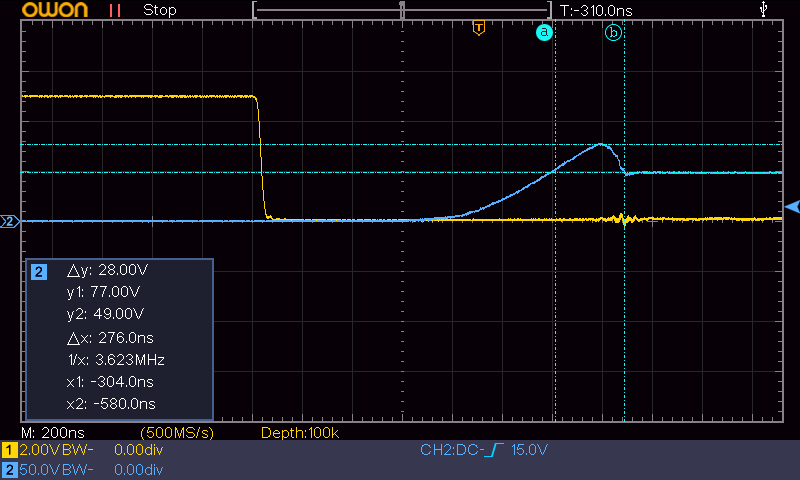
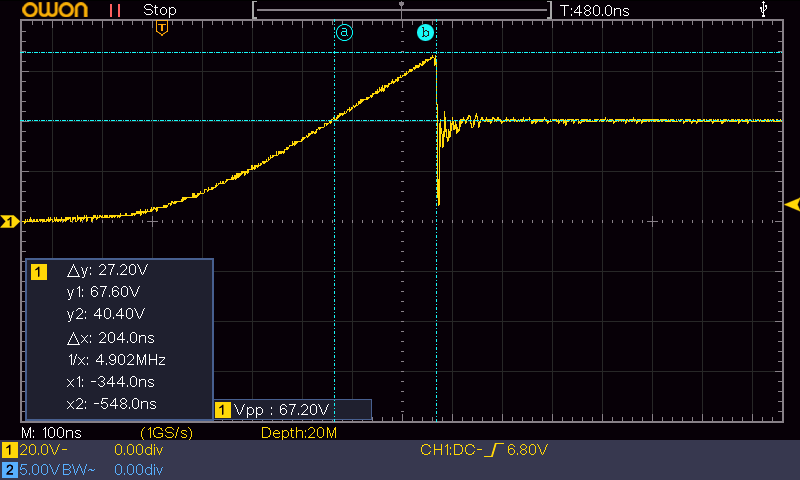
Updates scope capture

diff --git a/docs/products/motorsteuergerat-24p-v1/reference.md b/docs/products/motorsteuergerat-24p-v1/reference.md
@@ -124,7 +124,7 @@ To protect the switching MOSFETs from the high-voltage inductive "kickback" gene
 
 *   **How it Works:** When the driver turns off, the magnetic field in the injector coil collapses, generating a high-voltage spike. Once this voltage exceeds the Zener diode threshold, current flows back into the MOSFET's Gate. This turns the MOSFET slightly back on (into its linear region) to dissipate the inductive energy safely across its silicon channel.
 
-*  **Fast Injector Closing:** By clamping the inductive spike at a relatively high voltage (settling to $\approx 49\ \text{V}$ on the Motorsteuergerät 24P V1), the magnetic field is forced to collapse rapidly. This results in fast and repeatable injector closing times, minimizing injector lag.
+*  **Fast Injector Closing:** By clamping the inductive spike at a relatively high voltage (settling to $\approx 40\ \text{V}$ on the Motorsteuergerät 24P V1), the magnetic field is forced to collapse rapidly. This results in fast and repeatable injector closing times, minimizing injector lag.
 
 *  **Thermal Distribution:** The robust MOSFET silicon absorbs the bulk of the thermal energy spike, preventing small, discrete diodes on the board from overheating.
 
@@ -144,15 +144,15 @@ The scope capture shows the MOSFET Drain voltage ($V_{\mathrm{DS}}$, blue) and t
 output that drives the gate (yellow) as the injector turns off. The yellow trace is measured
 *before* the gate resistor, so it shows the logic-side Gate-drive command rather than the exact
 $V_{\mathrm{GS}}$ at the MOSFET pin. During the brief Zener turn-on delay the Drain briefly
-spikes to about $77\ \text{V}$ before the active clamp settles to a stable $\approx 49\ \text{V}$
+spikes to about $67\ \text{V}$ for approximately $200\ \text{ns}$ before the active clamp settles to a stable $\approx 40\ \text{V}$
 plateau. This is expected behavior and is safe for the IRLR2905.
 
-??? tip "Why a 77 V spike is safe for the MOSFET"
-    Although the $77\ \text{V}$ peak exceeds the IRLR2905's rated Drain-to-Source breakdown
+??? tip "Why a 67 V spike is safe for the MOSFET"
+    Although the $67\ \text{V}$ peak exceeds the IRLR2905's rated Drain-to-Source breakdown
     voltage ($V_{\mathrm{DSS}} = 55\ \text{V}$), the MOSFET is not harmed. Under this ultra-short
     sub-microsecond transient, the device enters its rated **avalanche breakdown** region. Modern
     power MOSFETs are fully avalanche-rated, and the tiny amount of energy transferred during this
-    $276\ \text{ns}$ window is orders of magnitude below the transistor's avalanche ratings
+    $200\ \text{ns}$ window is orders of magnitude below the transistor's avalanche ratings
     ($E_{\mathrm{AS}} = 210\ \text{mJ}$, $E_{\mathrm{AR}} = 11\ \text{mJ}$,
     $I_{\mathrm{AR}} = 25\ \text{A}$), allowing it to safely absorb the spike.
 
@@ -162,14 +162,14 @@ plateau. This is expected behavior and is safe for the IRLR2905.
         maximum rated avalanche current ($I_{\mathrm{AR}}$), not the actual injector current.
         A far more realistic upper-bound is the peak injector-bank current from §A.1.1,
         $4.67\ \text{A}$ (four injectors in parallel at $14\ \text{V}$). Assuming the full
-        $77\ \text{V}$ peak and that $4.67\ \text{A}$ persist throughout the complete
-        $276\ \text{ns}$ interval:
+        $67\ \text{V}$ peak and that $4.67\ \text{A}$ persist throughout the complete
+        $200\ \text{ns}$ interval:
 
-        $$E_{\mathrm{avalanche}} \leq V \cdot I \cdot t = 77\ \text{V} \cdot 4.67\ \text{A} \cdot 276\ \text{ns} \approx 0.099\ \text{mJ} = 9.9 \times 10^{-5}\ \text{J}$$
+        $$E_{\mathrm{avalanche}} \leq V \cdot I \cdot t = 67\ \text{V} \cdot 4.67\ \text{A} \cdot 200\ \text{ns} \approx 0.063\ \text{mJ} = 6.3 \times 10^{-5}\ \text{J}$$
 
-        So the energy deposited in the MOSFET during the 276 ns Zener turn-on delay is at most
-        **about $0.1\ \text{mJ}$** — roughly **one tenth of a millijoule**, or
-        **$1 \times 10^{-4}\ \text{J}$**. The real energy is lower because both voltage and
+        So the energy deposited in the MOSFET during the 200 ns Zener turn-on delay is at most
+        **about $0.06\ \text{mJ}$** — roughly **0.06 millijoule**, or
+        **$6 \times 10^{-5}\ \text{J}$**. The real energy is lower because both voltage and
         current vary during the transient, and the actual turn-off current is usually below the
         $4.67\ \text{A}$ peak. Even this conservative estimate is far below the
         $210\ \text{mJ}$ single-pulse avalanche-energy rating.
@@ -181,12 +181,12 @@ plateau. This is expected behavior and is safe for the IRLR2905.
         rather than the exact $V_{\mathrm{GS}}$ at the MOSFET pin). When the Gate drive switches
         to $0\ \text{V}$ and the injector turns off, the inductive "kickback" causes the Drain
         voltage to spike.
-    *   **Zener Turn-On Delay ($276\ \text{ns}$):** There is a short transient period of
-        **$276\ \text{ns}$** representing the duration it takes for the feedback $36\ \text{V}$
+    *   **Zener Turn-On Delay ($200\ \text{ns}$):** There is a short transient period of
+        **$200\ \text{ns}$** representing the duration it takes for the feedback $36\ \text{V}$
         Zener diode (in series with a 1N4148 blocking diode) to fully turn on and start conducting.
-        During this brief delay, the Drain voltage temporarily spikes to **$\approx 77\ \text{V}$**.
+        During this brief delay, the Drain voltage temporarily spikes to **$\approx 67\ \text{V}$**.
     *   **Clamping Plateau:** Once the Zener diode fully activates and delivers charge back to the
-        MOSFET Gate, the active clamp settles neatly to a stable plateau of **$\approx 49\ \text{V}$**.
+        MOSFET Gate, the active clamp settles neatly to a stable plateau of **$\approx 40\ \text{V}$**.
         The actual clamp voltage is higher than the $36\ \text{V}$ Zener rating because of the low
         gate resistor value and the additional voltage drop across the 1N4148 blocking diode. This
         high-voltage clamp minimizes injector closing times and safely dissipates the magnetic